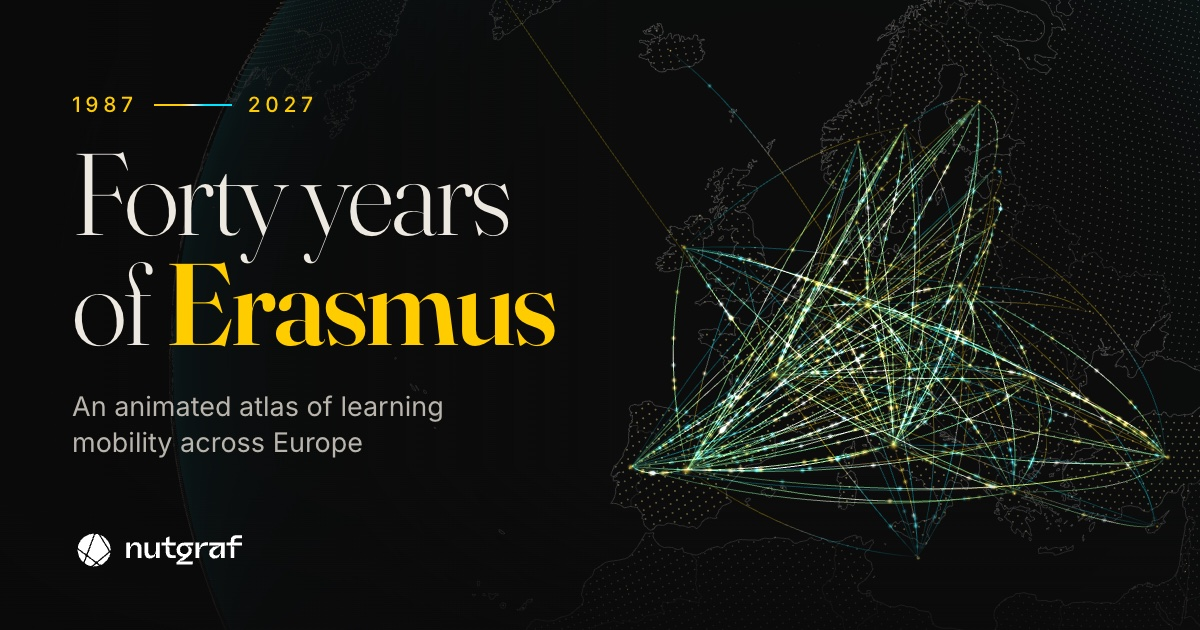
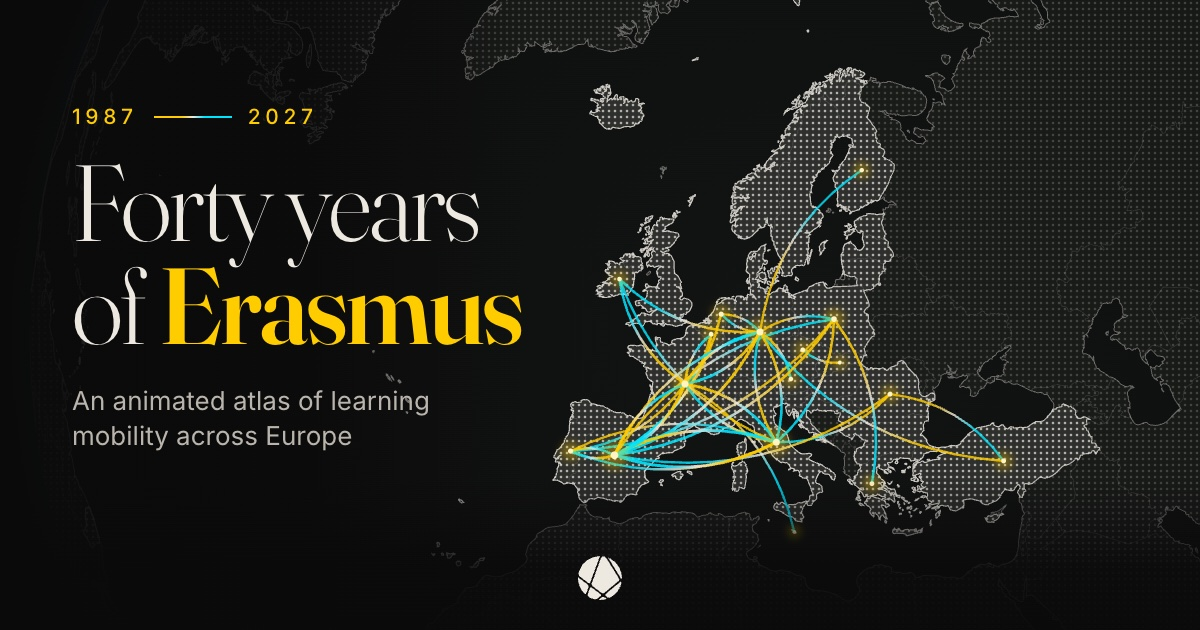
Erasmus at 40: share card redrawn as a map so Europe's outline reads.
The card is now a dotted map of Europe with the member countries lit, the
40 busiest 2024 routes and the nutgraf symbol bottom centre, where
WhatsApp's square crop keeps it. The image URL gets ?v=2 so cached
previews refetch it, and the alt text describes the new card.

diff --git a/erasmus/index.html b/erasmus/index.html
@@ -13,17 +13,17 @@
 <meta property="og:title" content="Erasmus at 40 — a continent in motion">
 <meta property="og:description" content="Nearly 12 million recorded journeys between Europe's classrooms, workshops and youth centres, 1987–2024.">
 <!-- share card: rendered from scripts/og-card.html by scripts/render_og.sh -->
-<meta property="og:image" content="https://nutgraf.studio/erasmus/assets/og-image.jpg">
-<meta property="og:image:secure_url" content="https://nutgraf.studio/erasmus/assets/og-image.jpg">
+<meta property="og:image" content="https://nutgraf.studio/erasmus/assets/og-image.jpg?v=2">
+<meta property="og:image:secure_url" content="https://nutgraf.studio/erasmus/assets/og-image.jpg?v=2">
 <meta property="og:image:type" content="image/jpeg">
 <meta property="og:image:width" content="1200">
 <meta property="og:image:height" content="630">
-<meta property="og:image:alt" content="Forty years of Erasmus, 1987–2027: a dark globe centred on Europe, criss-crossed by gold and cyan arcs of learning mobility. nutgraf.studio">
+<meta property="og:image:alt" content="Forty years of Erasmus, 1987–2027: a dotted map of Europe criss-crossed by gold and cyan arcs of learning mobility, with the nutgraf.studio symbol">
 <meta name="twitter:card" content="summary_large_image">
 <meta name="twitter:title" content="Erasmus at 40 — a continent in motion">
 <meta name="twitter:description" content="Nearly 12 million recorded journeys between Europe's classrooms, workshops and youth centres, 1987–2024.">
-<meta name="twitter:image" content="https://nutgraf.studio/erasmus/assets/og-image.jpg">
-<meta name="twitter:image:alt" content="Forty years of Erasmus, 1987–2027: a dark globe centred on Europe, criss-crossed by gold and cyan arcs of learning mobility. nutgraf.studio">
+<meta name="twitter:image" content="https://nutgraf.studio/erasmus/assets/og-image.jpg?v=2">
+<meta name="twitter:image:alt" content="Forty years of Erasmus, 1987–2027: a dotted map of Europe criss-crossed by gold and cyan arcs of learning mobility, with the nutgraf.studio symbol">
 <link rel="preconnect" href="https://fonts.googleapis.com">
 <link rel="preconnect" href="https://fonts.gstatic.com" crossorigin>
 <link href="https://fonts.googleapis.com/css2?family=Fraunces:ital,opsz,wght@0,9..144,300;0,9..144,600;0,9..144,900;1,9..144,300;1,9..144,600&family=Inter:wght@400;500;600;700&display=swap" rel="stylesheet">
